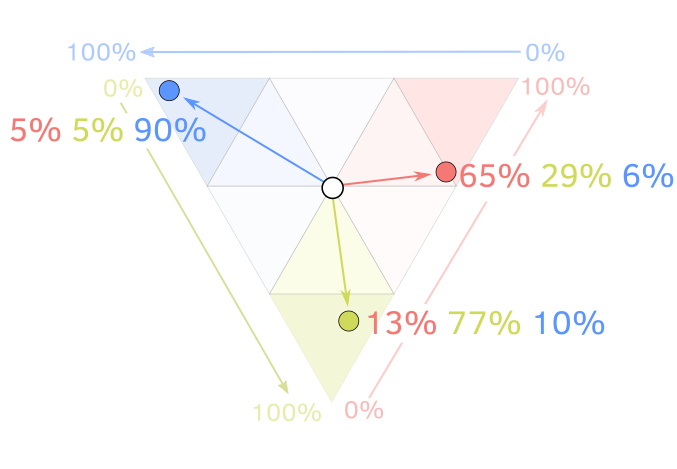
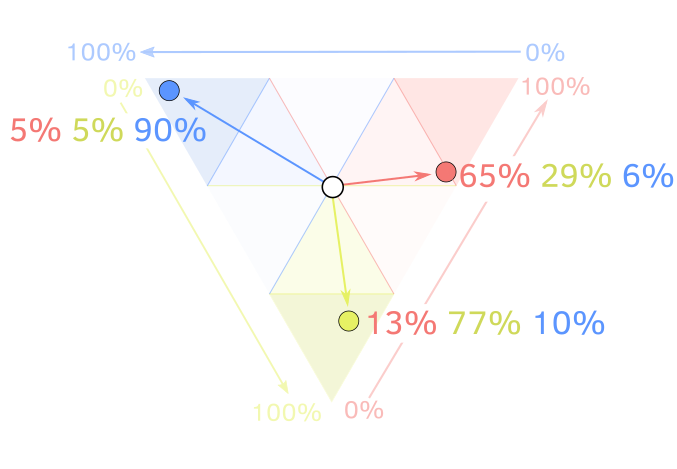
замінила англ. текст

diff --git a/en/index.html b/en/index.html
@@ -108,7 +108,7 @@
     <p>Imagine the political preferences of voters in the form of a triangle, where the
         <span style="color: #5B95FF; font-weight: bold;"> blue corner indicates the national democratic forces;</span>
         <span style="color: #F47874; font-weight: bold;"> the red corner, the pro-Russian and communist parties;</span>
-        <span style="color: #cfd95a; font-weight: bold;"> the green, the populist.</span>
+        <span style="color: #b8c150; font-weight: bold;"> the green, the populist.</span>
         Any ratio of votes for these three types of political forces can be coded by a point on this triangle.</p>
 
     <p>For example, if voters gave each type of political force 33.3%, we get a position in the middle of the triangle (white dot in the center). This is rare: most likely, some forces will have more support, so the point will shift, respectively, in the direction of the blue, green, or red corner.</p>

diff --git a/en/js/ternary_points_turn_over_try.js b/en/js/ternary_points_turn_over_try.js
@@ -193,8 +193,8 @@ d3.csv("../data/ternary_data.csv").then(function(data) {
                 coord([0,0,100]).x + "," + coord([0,0,100]).y + " " +
                 coord([0,4,96]).x + "," + coord([0,4,96]).y + " " +
                 coord([4,0,96]).x + "," + coord([4,0,96]).y )
-           .attr("fill", green)
-           .style("opacity", 0.5);
+           .attr("fill", "#cfd95a")
+           .style("opacity", 1);
 
         axes.append("polygon")
             .attr("points",
